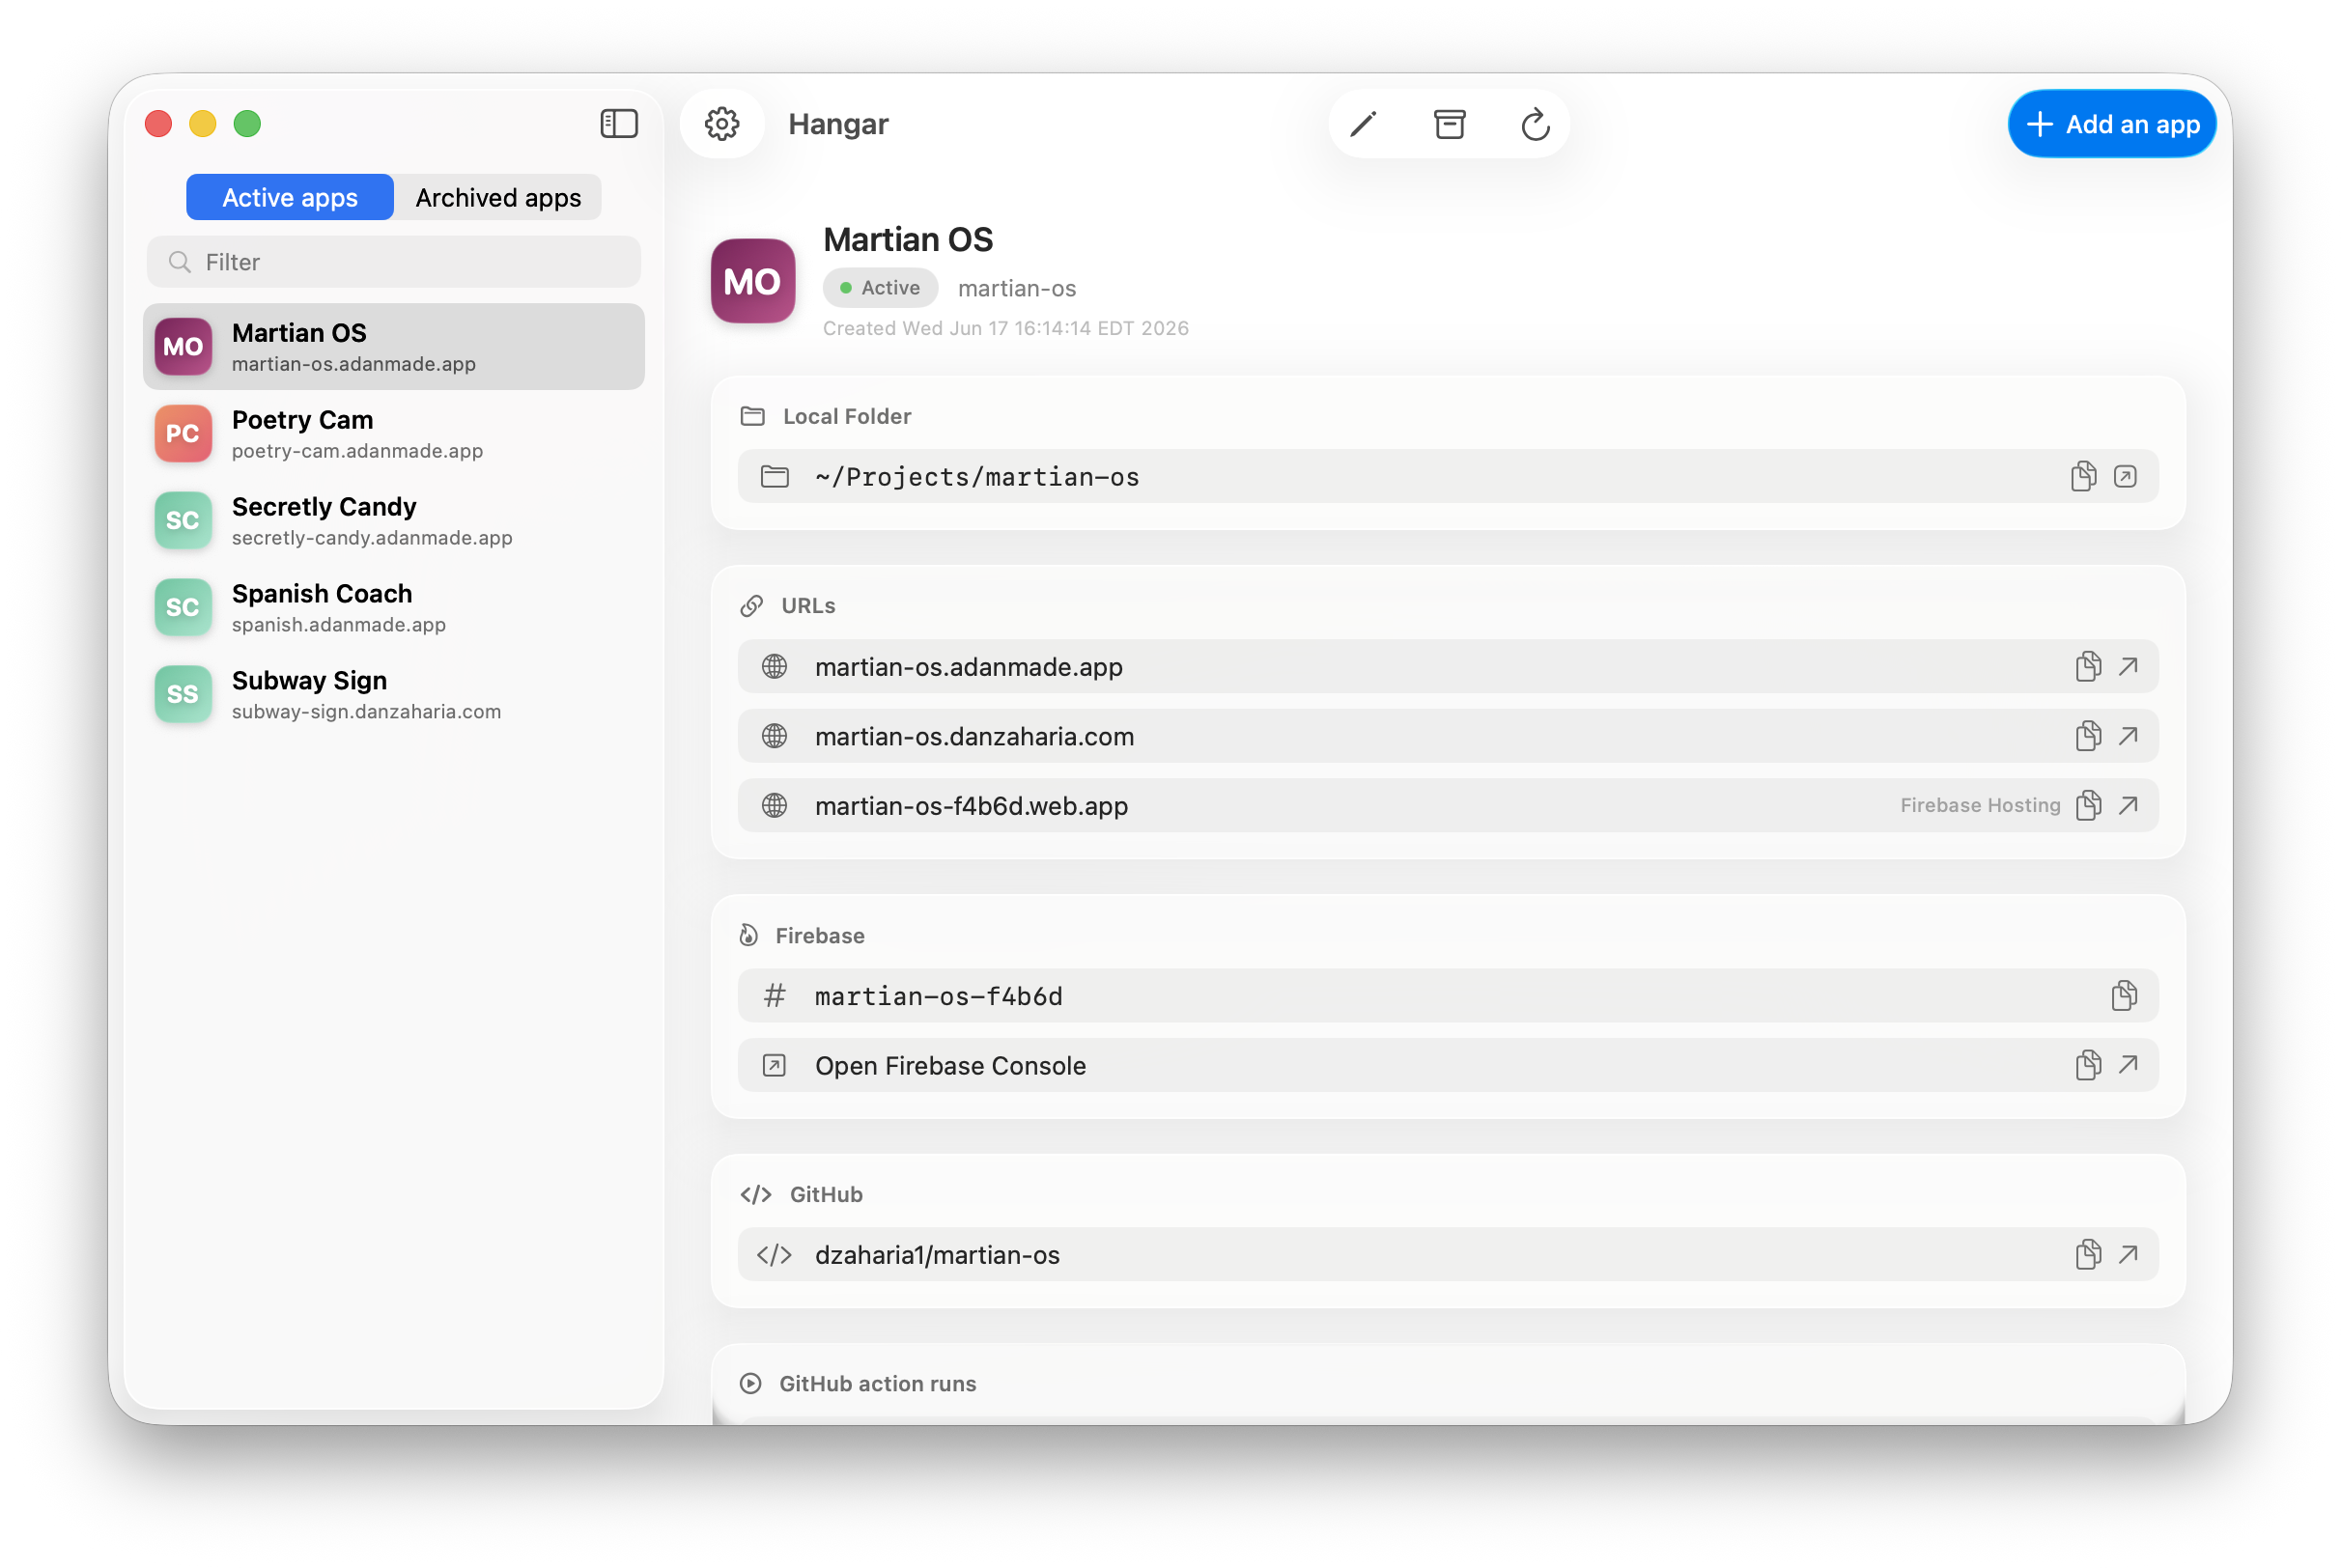
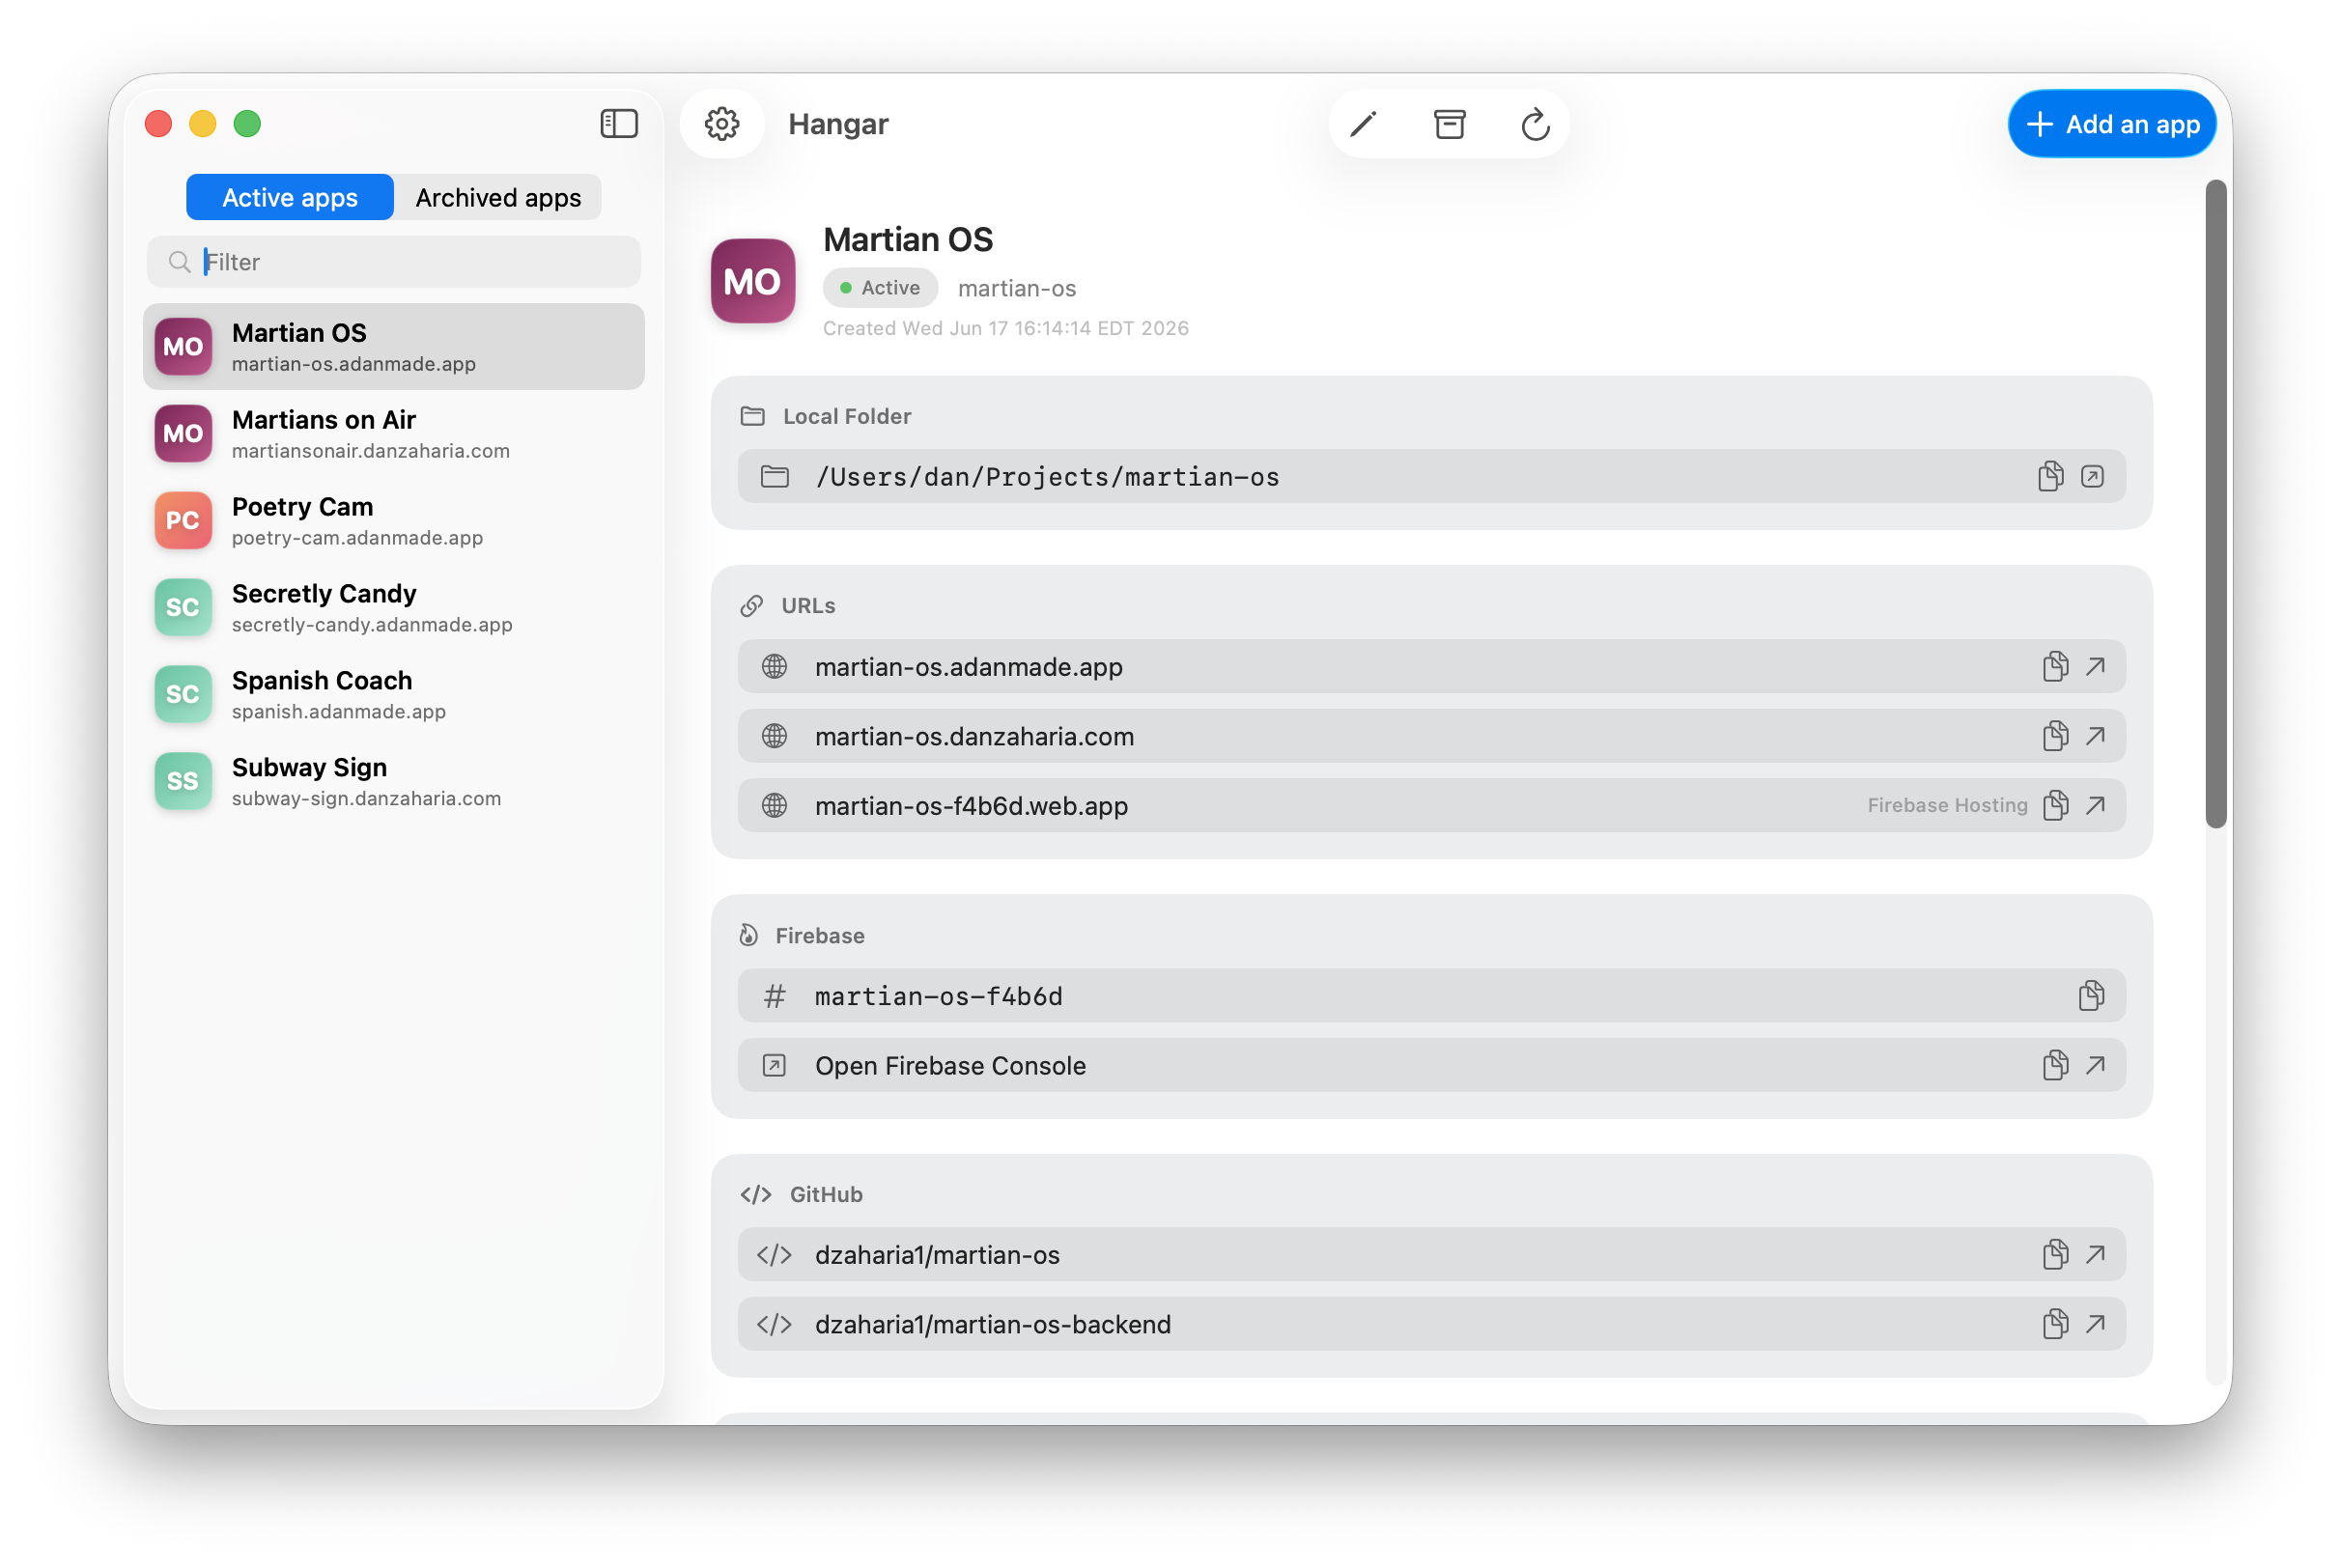
Fix release build script developer path & add registry syncing capability to Hangar

diff --git a/Hangar/Services/AppController.swift b/Hangar/Services/AppController.swift
@@ -20,6 +20,7 @@ final class AppController: ObservableObject {
     @Published var errorMessage: String?
     @Published var githubUser: String?
     @Published var refreshTrigger = UUID()
+    @Published var isSyncingRegistry = false
 
     // Create flow
     let creationRunner = ScriptRunner()
@@ -37,6 +38,7 @@ final class AppController: ObservableObject {
         load()
         selectedAppID = visibleApps.first?.id
         ensureGitHubUser()
+        syncRegistry(showErrorOnFailure: false)
     }
 
     /// Prefer the new `.settings` file, falling back to the legacy
@@ -59,6 +61,19 @@ final class AppController: ObservableObject {
     }
 
     // MARK: - Registry
+
+    func syncRegistry(showErrorOnFailure: Bool = false) {
+        guard let dir = scriptsDirectory else { return }
+        isSyncingRegistry = true
+        runShell("cd apps-registry && git pull", in: dir) { [weak self] code, output in
+            guard let self else { return }
+            self.isSyncingRegistry = false
+            if code != 0 && showErrorOnFailure {
+                self.errorMessage = "Couldn't pull the latest registry updates.\n\n\(output.trimmingCharacters(in: .whitespacesAndNewlines))"
+            }
+            self.load()
+        }
+    }
 
     func load() {
         refreshTrigger = UUID()

diff --git a/Hangar/HangarApp.swift b/Hangar/HangarApp.swift
@@ -26,9 +26,10 @@ struct HangarApp: App {
             }
             CommandGroup(after: .toolbar) {
                 Button("Reload Registry") {
-                    controller.load()
+                    controller.syncRegistry(showErrorOnFailure: true)
                 }
                 .keyboardShortcut("r", modifiers: .command)
+                .disabled(controller.isSyncingRegistry)
             }
         }
     }

diff --git a/Hangar/Views/RootView.swift b/Hangar/Views/RootView.swift
@@ -52,11 +52,12 @@ struct RootView: View {
                     .disabled(controller.selectedApp == nil || controller.selectedApp?.status != .active)
 
                     Button {
-                        controller.load()
+                        controller.syncRegistry(showErrorOnFailure: true)
                     } label: {
                         Label("Reload from registry", systemImage: "arrow.clockwise")
                     }
                     .help("Reload from registry")
+                    .disabled(controller.isSyncingRegistry)
                 }
             }
 